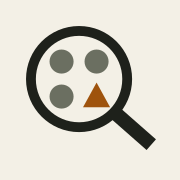
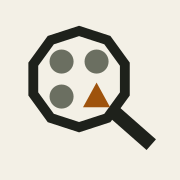
The ring is a decagon, which only shows when you look
The mark now hides the thing the product exists to catch. A ten-sided
approximation deviates from a true circle by about a fifth of a pixel at 16px,
so as a favicon it simply is a circle; enlarged it is plainly a polygon.
Smooth at a glance, crude on inspection.

Hybrid images (Oliva, Torralba and Schyns) are the principle: the visual system
low-passes at small size, so detail that would give the game away is simply not
resolved. Verified rather than assumed, by rendering at 16 and reading the
pixel grid: the ring comes out even, with no flat edges visible.

The alternative was a ring built from irregular dashes, which reveals harder
but goes mottled by 16px and reads as a rendering fault rather than a
statement. Ian picked the decagon, and ten sides over nine so that 16 and 32
stay rounder.

One drawing at every size, deliberately. A real circle when small and a
polygon when large would not be a scale-dependent mark, it would be two logos,
and the idea only works because it is the same drawing throughout.

Miter joins, since rounding them would hide it.

diff --git a/web/lib/brand.ts b/web/lib/brand.ts
@@ -11,14 +11,21 @@
  *  mark is asymmetric, the handle sits at 34 degrees rather than 45, and no joint is rounded. A
  *  smooth centred gradient glyph on a product named after slop would be self-parody.
  *
+ *  The ring is a DECAGON rather than a circle. A ten-sided approximation deviates from a true
+ *  circle by about a fifth of a pixel at favicon size, so small it simply IS a circle; enlarged it
+ *  is plainly a polygon. Smooth at a glance, crude on inspection, which is the thing the product
+ *  exists to catch, hidden in the mark where only someone looking closely finds it. It is one
+ *  drawing at every size on purpose: swapping a real circle in when small would make it two logos
+ *  rather than a mark that behaves differently by scale.
+ *
  *  The favicon is a REDUCED version of this and lives in app/icon.svg, because at 16px the lens
  *  interior is about eight real pixels across and four cells become one smudge. It keeps the lens
  *  and one triangle. Kept as a separate file rather than derived, since Next serves app/icon.svg by
  *  filename convention and cannot import from here.
  */
 export const MARK_SVG = `<svg xmlns="http://www.w3.org/2000/svg" viewBox="0 0 64 64" width="64" height="64">
-  <g fill="none" stroke="#1e211b" stroke-linecap="butt">
-    <circle cx="27" cy="27" r="22" stroke-width="4.5"/>
+  <g fill="none" stroke="#1e211b" stroke-linecap="butt" stroke-linejoin="miter">
+    <path d="M27.000 5.000 L39.931 9.202 L47.923 20.202 L47.923 33.798 L39.931 44.798 L27.000 49.000 L14.069 44.798 L6.077 33.798 L6.077 20.202 L14.069 9.202 Z" stroke-width="4.5"/>
     <path d="M43.5 42.5 L60 57" stroke-width="6.5"/>
   </g>
   <g fill="#6b6f61">
